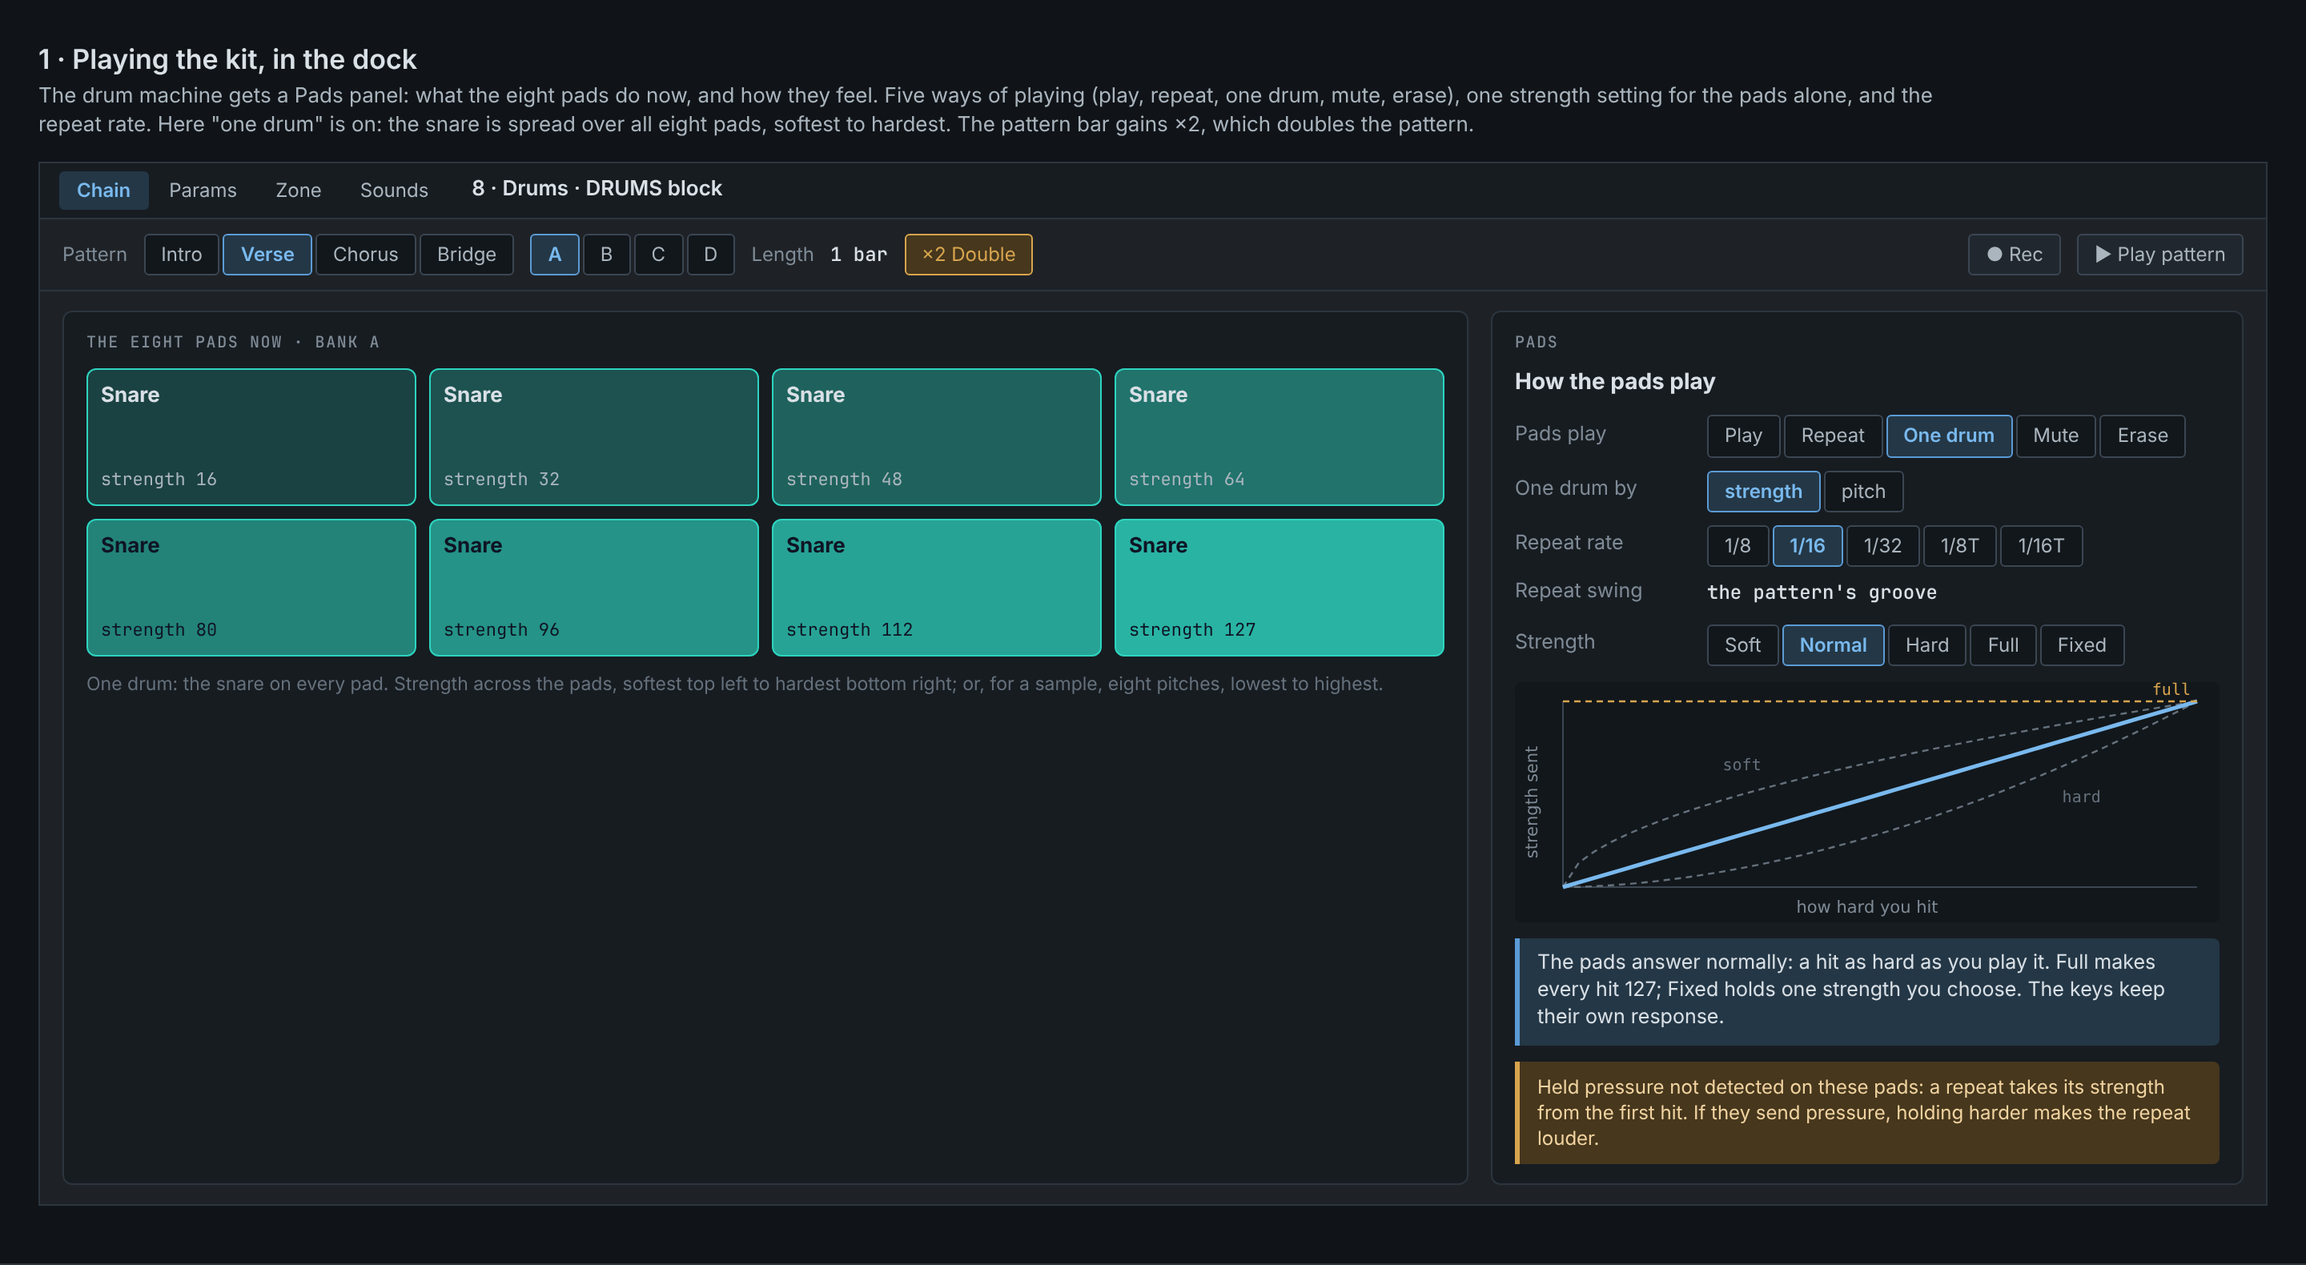
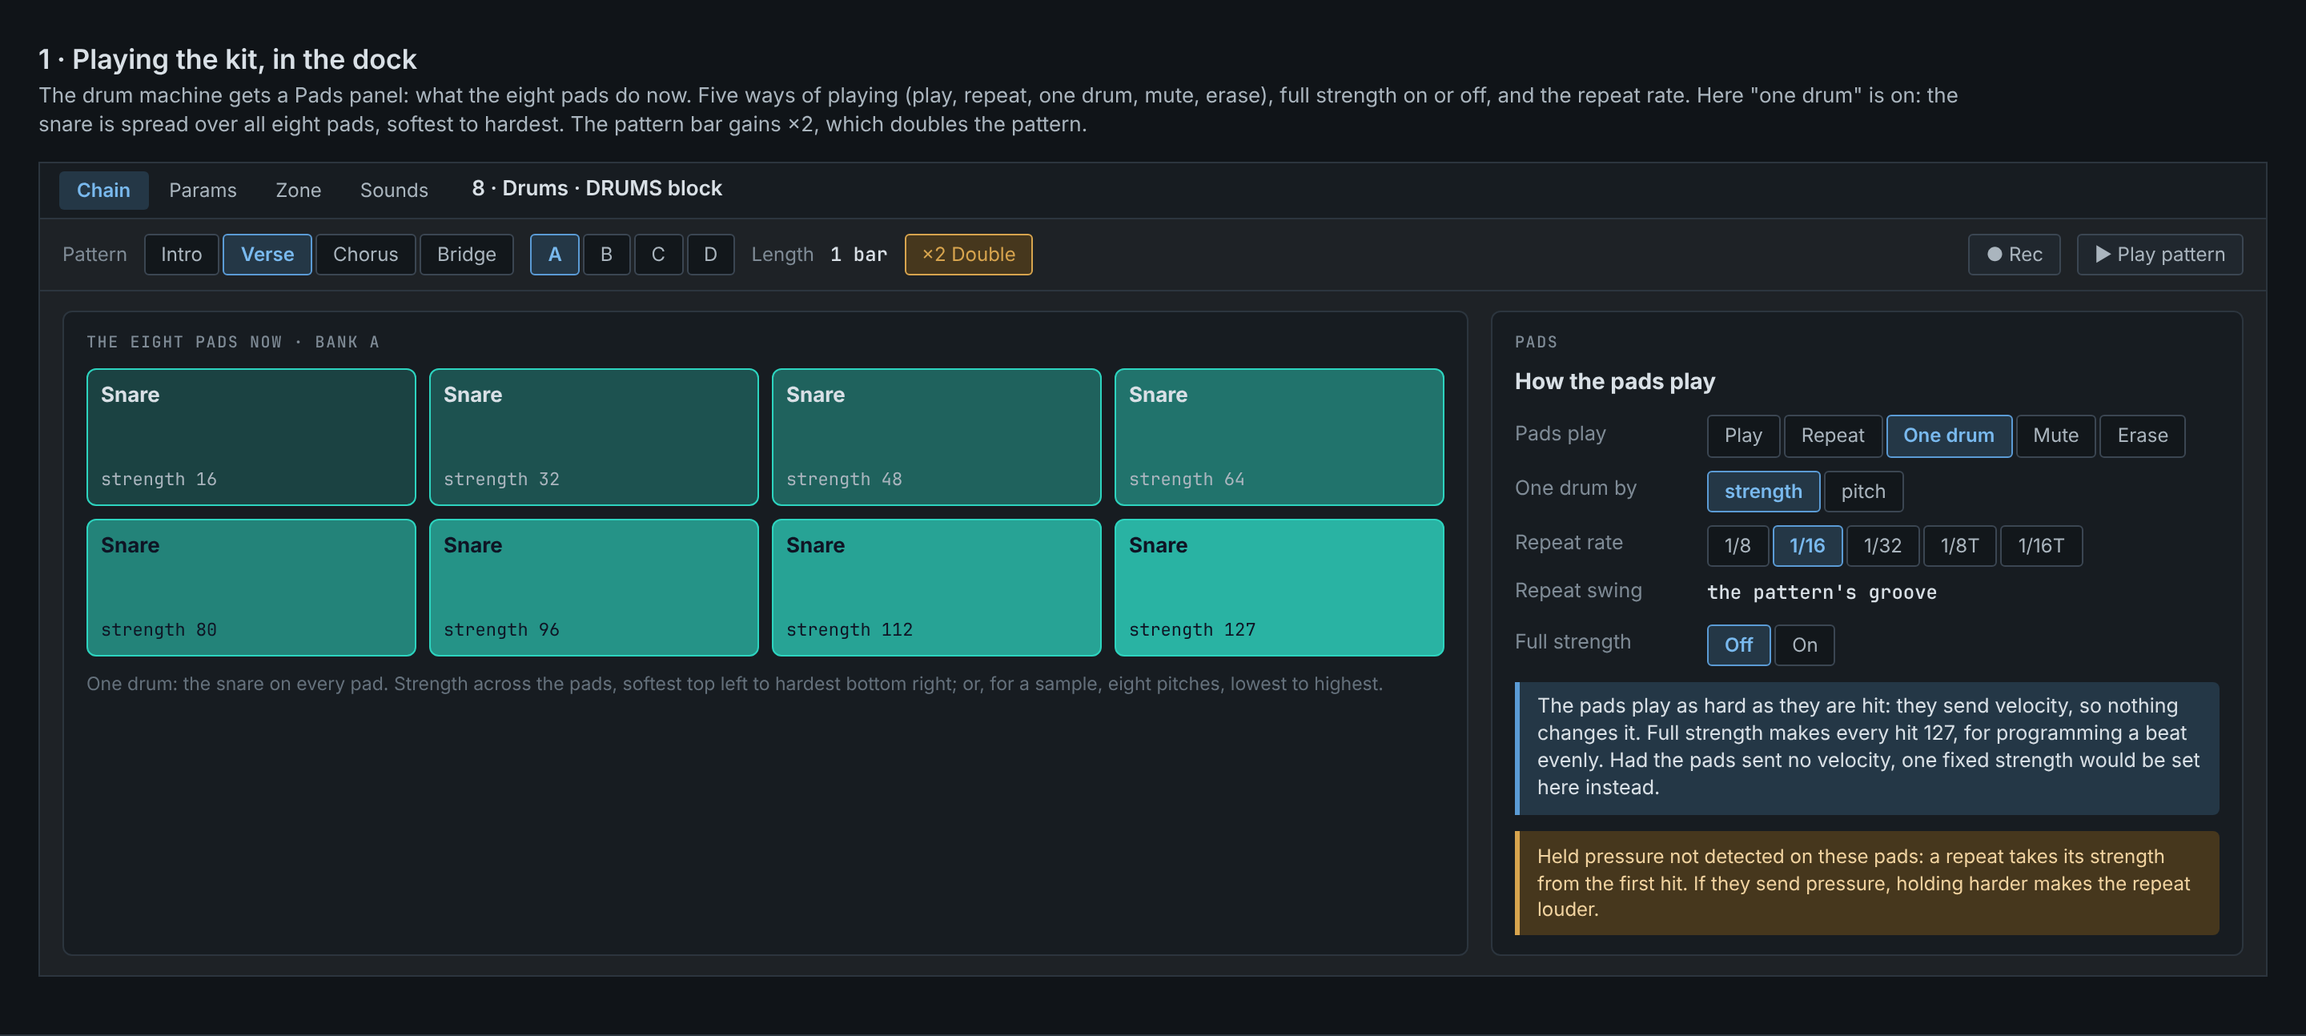
Design: playing the kit approved; pads with velocity play as hit [skip ci]
The owner approved the five ways for the pads to play, note repeat swung by the pattern's groove
and doubling a pattern. On the pads' strength the answer was no, if the pads have velocity: they
play as hard as they are hit, with no response curve of their own. Full strength stays, as a
switch, and only pads that send no velocity get one fixed strength. Feature 17 is changed to say
so, and the mockups replace the strength curve with the full-strength switch.

Claude-Session: https://claude.ai/code/session_01HyVeCzB98iwNdttddkKjwm

diff --git a/docs/design/hostage-kit-mockups.html b/docs/design/hostage-kit-mockups.html
@@ -62,8 +62,8 @@
 <section class="frame" id="f1">
   <div class="caption">
     <h2>1 · Playing the kit, in the dock</h2>
-    <p>The drum machine gets a Pads panel: what the eight pads do now, and how they feel. Five ways of playing (play, repeat, one drum, mute,
-      erase), one strength setting for the pads alone, and the repeat rate. Here "one drum" is on: the snare is spread over all eight pads,
+    <p>The drum machine gets a Pads panel: what the eight pads do now. Five ways of playing (play, repeat, one drum, mute, erase), full strength
+      on or off, and the repeat rate. Here "one drum" is on: the snare is spread over all eight pads,
       softest to hardest. The pattern bar gains ×2, which doubles the pattern.</p>
   </div>
   <div class="app">
@@ -82,9 +82,8 @@
           <span class="kk">Repeat rate</span><span class="seg"><span>1/8</span><span class="on">1/16</span><span>1/32</span><span>1/8T</span><span>1/16T</span></span>
           <span class="kk">Repeat swing</span><span><span class="v">the pattern's groove</span></span>
         </div>
-        <div class="kv"><span class="kk">Strength</span><span class="seg"><span>Soft</span><span class="on">Normal</span><span>Hard</span><span>Full</span><span>Fixed</span></span></div>
-        <div id="curve1"></div>
-        <div class="say">The pads answer normally: a hit as hard as you play it. Full makes every hit 127; Fixed holds one strength you choose. The keys keep their own response.</div>
+        <div class="kv"><span class="kk">Full strength</span><span class="seg"><span class="on">Off</span><span>On</span></span></div>
+        <div class="say">The pads play as hard as they are hit: they send velocity, so nothing changes it. Full strength makes every hit 127, for programming a beat evenly. Had the pads sent no velocity, one fixed strength would be set here instead.</div>
         <div class="warn">Held pressure not detected on these pads: a repeat takes its strength from the first hit. If they send pressure, holding harder makes the repeat louder.</div>
       </div>
     </div>
@@ -96,7 +95,7 @@
     <h2>2 · KIT on the CTRL49, three ways of playing</h2>
     <p>KIT keeps the pads as the drums and gains a MODE knob. REPEAT: hold a pad and it repeats at the rate, swung like the pattern. MUTE: each
       pad mutes or unmutes its drum while the pattern plays. ERASE: hold a pad and its drum's hits are cleared as the playhead passes them.
-      STRENGTH is the pads' response, FULL its top. PATTERN gains ×2. Which knob and pad does what is settled when the pages are built.</p>
+      FULL makes every hit full strength. PATTERN gains ×2. Which knob and pad does what is settled when the pages are built.</p>
   </div>
   <div class="three"><figure id="p1"></figure><figure id="p2"></figure><figure id="p3"></figure></div>
 </section>
@@ -112,7 +111,7 @@
     s += curve(1.8, '#65717c', 1.2, 1) + curve(.55, '#65717c', 1.2, 1) + curve(1, '#79b9ee', 2.5) + `<line x1="${X(0)}" y1="${Y(127)}" x2="${X(127)}" y2="${Y(127)}" stroke="#d7a44e" stroke-width="1.2" stroke-dasharray="4 3"/>`;
     s += `<text x="${X(127) - 4}" y="${Y(127) - 4}" text-anchor="end" font-family="DejaVu Sans Mono, monospace" font-size="10" fill="#d7a44e">full</text><text x="${X(100)}" y="${Y(58)}" font-family="DejaVu Sans Mono, monospace" font-size="10" fill="#65717c">hard</text><text x="${X(32)}" y="${Y(80)}" font-family="DejaVu Sans Mono, monospace" font-size="10" fill="#65717c">soft</text>`;
     s += `<text x="${W / 2}" y="${H - 6}" text-anchor="middle" font-family="DejaVu Sans, sans-serif" font-size="10.5" fill="#7f8b96">how hard you hit</text><text x="14" y="${H / 2}" font-family="DejaVu Sans, sans-serif" font-size="10.5" fill="#7f8b96" transform="rotate(-90 14 ${H / 2})" text-anchor="middle">strength sent</text>`;
-    document.getElementById('curve1').innerHTML = `<svg viewBox="0 0 ${W} ${H}" style="width:100%;height:auto;display:block">${s}</svg>`; }
+    const c1 = document.getElementById('curve1'); if (c1) c1.innerHTML = `<svg viewBox="0 0 ${W} ${H}" style="width:100%;height:auto;display:block">${s}</svg>`; }
 
   // ---- CTRL49 pages ----
   const C = { bg: '#0F1424', card: '#171D33', raised: '#232B48', text: '#E6E9F5', dim: '#6B7393', label: '#8890B0', foot: '#565E7E', bar: '#4A5378', violet: '#8B7CFF', teal: '#2DD4BF', amber: '#FFB547', pink: '#FF5C93' };
@@ -125,7 +124,7 @@
   const cells = (list) => list.map((c, i) => { if (!c) return ''; const cx = i * 60 + 30;
     return T(cx, 217, c.l, c.focus ? C.teal : C.label, 8.5, "text-anchor='middle' font-weight='700'") + T(cx, 236, c.v, c.focus ? C.teal : C.text, c.vs || 13, "text-anchor='middle' font-weight='600'") + `<rect x="${i * 60 + 8}" y="244" width="44" height="4" rx="2" fill="${C.raised}"/>` + (c.f ? `<rect x="${i * 60 + 8}" y="244" width="${44 * c.f}" height="4" rx="2" fill="${C.bar}"/>` : ''); }).join('');
   const kitCells = (mode, focus) => cells([{ l: 'KICK', v: '−2.0', f: .8 }, { l: 'SNARE', v: '0.0', f: .9 }, { l: 'CLAP', v: '−6.0', f: .6 }, { l: 'HAT CL', v: '−4.0', f: .7 },
-    { l: 'STRENGTH', v: 'NORMAL', vs: 10.5 }, { l: 'RATE', v: '1/16', focus: focus === 'rate' }, { l: 'SPREAD', v: 'STRENGTH', vs: 9.5 }, { l: 'MODE', v: mode, vs: 11, focus: true }]);
+    { l: 'FULL', v: 'OFF', vs: 12 }, { l: 'RATE', v: '1/16', focus: focus === 'rate' }, { l: 'SPREAD', v: 'STRENGTH', vs: 9.5 }, { l: 'MODE', v: mode, vs: 11, focus: true }]);
   const svg = (s) => `<svg viewBox="0 0 480 272" xmlns="http://www.w3.org/2000/svg">${s}</svg>`;
   const grid = (draw) => { let s = `<rect x="8" y="30" width="464" height="146" rx="4" fill="${C.card}"/>`; KIT.forEach(([n, c], i) => { const x = 16 + (i % 4) * 114, y = 38 + Math.floor(i / 4) * 68; s += draw(n, c, i, x, y); }); return s; };
   // REPEAT

diff --git a/docs/design/hostage-kit-design.md b/docs/design/hostage-kit-design.md
@@ -1,6 +1,7 @@
 # HoSTage: playing the kit
 
-*Design with mockups for the owner to approve, 2026-11-19. Nothing built. It draws seven features
+*Design with mockups, approved by the owner on 2026-11-19, with one change to the pads' strength
+(decision 2). Nothing built. It draws seven features
 of `hostage-build-features-2.md` that live on the drum machine's pads, all taken: 2 (note repeat)
 and 13 to 18 (full strength, one drum on every pad, erase while it plays, mute drums from the pads,
 pad response, double the pattern). They are decided; this record decides only how they look and
@@ -37,10 +38,10 @@ The drum machine's editor gains a **Pads** panel: what the eight pads do now, an
   - **Mute** (16): each pad mutes or unmutes its drum while the pattern plays.
   - **Erase** (15): hold a pad and its drum's hits are cleared as the playhead passes them; let go
     to stop. Undo puts them back.
-- **Strength** (17 and 13): how the pads answer, for the pads alone; the keys keep their own
-  response. **Soft** (a light touch gives more), **Normal**, **Hard** (it takes a harder hit),
-  **Full** (every hit 127: feature 13) or **Fixed** (one strength you choose). Drawn as a curve,
-  how hard you hit against the strength sent.
+- **Full strength** (13): on or off. On, every hit is 127, for programming a beat evenly.
+- **No response curve for the pads** (17, changed by decision 2): pads that send velocity play as
+  hard as they are hit, and nothing changes it. Only if the pads send no velocity do they get one
+  **fixed strength**, set here. The keys keep their own response either way.
 - **×2 Double** (18) in the pattern bar: the pattern's bar copied to make two, ready to vary the
   second, within the line's 64 steps.
 
@@ -50,7 +51,7 @@ The drum machine's editor gains a **Pads** panel: what the eight pads do now, an
 
 - **KIT keeps the pads as the drums** and gains a **MODE** knob (play, repeat, one drum, mute,
   erase), a **RATE** knob for repeat, a **SPREAD** knob for one drum (strength or pitch) and a
-  **STRENGTH** knob for the response, with FULL at its top. The first four knobs stay the drums'
+  **FULL** knob for full strength. The first four knobs stay the drums'
   levels.
 - **REPEAT** shows the held pad's repeats as they play. **MUTE** shows each drum playing or muted.
   **ERASE** shows the held drum's lane, the hits cleared since the pad went down, and the playhead.
@@ -67,17 +68,18 @@ The drum machine's editor gains a **Pads** panel: what the eight pads do now, an
   pitches (Samples design).
 - **Mute and erase**: a lane's mute, and its steps cleared in real time as the playhead passes, as
   one undo step per press.
-- **Strength**: a curve applied to the pads' velocity only, before the drum machine and Samples
-  see it.
+- **Full strength**: every pad hit sent at 127 while on; a fixed strength instead of velocity only
+  if the pads send none (the pad test says which).
 - **Double**: a pattern's steps copied into a second bar.
 - **The pad pressure test** on the owner's CTRL49 (features record, MPK-style playing).
 
-## Decisions for the owner
+## Decisions (owner, 2026-11-19: "Approved. 1. Yes. 2. If the pads have velocity, no. 3. Yes. 4. Yes")
 
 1. **Five ways for the pads to play** (play, repeat, one drum, mute, erase), chosen in the dock and
-   with a MODE knob on KIT?
-2. **One strength setting for the pads alone** (soft, normal, hard, full, fixed), the keys keeping
-   their own?
+   with a MODE knob on KIT. **Yes.**
+2. **A strength setting for the pads alone.** **No, if the pads have velocity**: they play as hard as
+   they are hit, with no response curve. Full strength (feature 13) stays, as a switch. Only pads
+   without velocity get one fixed strength. The mockups show this.
 3. **Note repeat swung by the pattern's groove**, louder when held harder only if the pads send
-   pressure?
-4. **×2 in the pattern bar and on PATTERN**, within the 64 steps?
+   pressure. **Yes.**
+4. **×2 in the pattern bar and on PATTERN**, within the 64 steps. **Yes.**

diff --git a/docs/design/hostage-build-features-2.md b/docs/design/hostage-build-features-2.md
@@ -22,7 +22,7 @@ is right.*
 | # | Feature | Status | Design |
 | --- | --- | --- | --- |
 | 1 | **A drum machine**: a drum part's patterns as a grid in the dock and three pages on the CTRL49 | approved with mockups, 2026-11-19; it plays the drum instrument you load and has no sounds of its own | `hostage-drums-design.md` |
-| 2 | **Note repeat** on the KIT pads | taken, 2026-11-19; design with mockups for approval | `hostage-kit-design.md` |
+| 2 | **Note repeat** on the KIT pads | approved with mockups, 2026-11-19 | `hostage-kit-design.md` |
 | 3 | **A kit from anywhere**: each drum from a different instrument | taken; design to come | |
 | 4 | **Split a kit onto mixer strips** | taken; design to come | |
 | 5 | **An energy knob** that thins a pattern out or fills it in | taken; design to come | |
@@ -33,12 +33,12 @@ is right.*
 | 10 | **The kick ducks the bass**, from the pattern's own hits | taken; design to come | |
 | 11 | **A line machine**: the drum grid's twin for basslines and synth lines | taken; design to come | |
 | 12 | **Samples, on pads and keys**: a built-in one-shot sampler, the file player made playable | approved with mockups, 2026-11-19 | `hostage-sampler-design.md` |
-| 13 | **Full strength**: every pad hit at full velocity | approved, 2026-11-19 (MPK-style playing); design with mockups for approval | `hostage-kit-design.md` |
-| 14 | **One drum on every pad**, at eight strengths or eight pitches | approved, 2026-11-19 (MPK-style playing); design with mockups for approval | `hostage-kit-design.md` |
-| 15 | **Erase while it plays**: hold ERASE and a pad to clear that drum's hits | approved, 2026-11-19 (MPK-style playing); design with mockups for approval | `hostage-kit-design.md` |
-| 16 | **Mute drums from the pads** | approved, 2026-11-19 (MPK-style playing); design with mockups for approval | `hostage-kit-design.md` |
-| 17 | **Pad response**: a soft, normal or hard curve for the pads alone, or a fixed strength | approved, 2026-11-19 (MPK-style playing); design with mockups for approval | `hostage-kit-design.md` |
-| 18 | **Double the pattern**: one bar copied to two, ready to vary | approved, 2026-11-19 (MPK-style playing); design with mockups for approval | `hostage-kit-design.md` |
+| 13 | **Full strength**: every pad hit at full velocity | approved with mockups, 2026-11-19 (MPK-style playing) | `hostage-kit-design.md` |
+| 14 | **One drum on every pad**, at eight strengths or eight pitches | approved with mockups, 2026-11-19 (MPK-style playing) | `hostage-kit-design.md` |
+| 15 | **Erase while it plays**: hold ERASE and a pad to clear that drum's hits | approved with mockups, 2026-11-19 (MPK-style playing) | `hostage-kit-design.md` |
+| 16 | **Mute drums from the pads** | approved with mockups, 2026-11-19 (MPK-style playing) | `hostage-kit-design.md` |
+| 17 | **Pad response**: changed by the owner: no curve when the pads send velocity; a fixed strength only for pads without it | approved with mockups, 2026-11-19 (MPK-style playing) | `hostage-kit-design.md` |
+| 18 | **Double the pattern**: one bar copied to two, ready to vary | approved with mockups, 2026-11-19 (MPK-style playing) | `hostage-kit-design.md` |
 
 ## 1. A drum machine
 
@@ -181,7 +181,9 @@ below are named for what they do.
 16. **Mute drums from the pads.** A KIT pad layer where each pad mutes or unmutes its drum, for
     dropping the kick out of a groove and back in.
 17. **Pad response.** A soft, normal or hard curve for the pads alone, or one fixed strength, set
-    apart from the keys, since pads and keys rarely feel alike.
+    apart from the keys, since pads and keys rarely feel alike. *Changed when drawn (the owner,
+    2026-11-19: "If the pads have velocity, no"): pads that send velocity play as hit, with no curve;
+    only pads without velocity get one fixed strength (`hostage-kit-design.md`, decision 2).*
 18. **Double the pattern.** One bar copied to make two, ready to vary the second, the quick way to a
     longer loop (still within the line's 64 steps).
 

diff --git a/docs/design/README.md b/docs/design/README.md
@@ -72,7 +72,7 @@ with an *as built* section per phase.
 | [HoSTage: Build features, second round](hostage-build-features-2.md) | *Started 2026-11-19; nothing built.* The second round of Build features, after the first round's record (`hostage-wider-not-a-daw.md`), whose rules it follows. A list of features, each with its status and its design record. |
 | [HoSTage: the drum machine](hostage-drums-design.md) | *Approved with mockups, 2026-11-19; nothing built.* Feature 1 of the second round. A drum part's patterns, which already have drum lanes with strength, chance, repeats, nudge, conditions, polymeter, variations and a held fill, get a drum machine's face: a DRUMS block and grid in the dock, and DRUMS, KIT and PATTERN pages on the CTRL49. It plays the drum instrument you load and has no sounds of its own. Mockups in [hostage-drums-mockups.html](hostage-drums-mockups.html). |
 | [HoSTage: samples, on pads and keys](hostage-sampler-design.md) | *Approved with mockups, 2026-11-19; nothing built.* Feature 12 of the second round. A built-in one-shot sampler, the first round's file player made playable: each sample on a pad and on the keys, one key or a pitched range, sixteen pads a bank, trimmed on its waveform, with fades, level, pitch, choke groups and a note; files collected into the show; SAMPLES and TRIM pages on the CTRL49. A full sampler instrument stays with plug-ins. Mockups in [hostage-sampler-mockups.html](hostage-sampler-mockups.html). |
-| [HoSTage: playing the kit](hostage-kit-design.md) | *Design with mockups for approval, 2026-11-19; nothing built.* Features 2 and 13 to 18 of the second round, all on the drum machine's pads: five ways for the pads to play (play, repeat, one drum, mute, erase), one strength setting for the pads alone (soft to full or fixed), note repeat swung by the pattern's groove, and doubling a pattern. A Pads panel in the dock and a MODE knob on KIT. Mockups in [hostage-kit-mockups.html](hostage-kit-mockups.html). Four decisions for the owner. |
+| [HoSTage: playing the kit](hostage-kit-design.md) | *Approved with mockups, 2026-11-19; nothing built.* Features 2 and 13 to 18 of the second round, all on the drum machine's pads: five ways for the pads to play (play, repeat, one drum, mute, erase), full strength as a switch (pads with velocity play as hit, with no curve), note repeat swung by the pattern's groove, and doubling a pattern. A Pads panel in the dock and a MODE knob on KIT. Mockups in [hostage-kit-mockups.html](hostage-kit-mockups.html). |
 | [The modular chain](modular-chain.md) | *As built.* Instruments, MIDI modules and inserts as separate things: the per-part MIDI insert chain that replaced the welded FX-into-arp pair (with its migration), group buses where several parts become one signal that keeps going, and chain presets that keep a whole voice — instrument, modules, inserts and zone — as one library record. Ends with what it deliberately does not do. |
 | [Reliability, diagnostics and the support bundle](instrument-host-reliability.md) | The baseline's §17 layer, built after the seven functionality stages: the architecture check that keeps an unloadable module out of the browser without calling it broken, safe startup after a plug-in takes the process down, a last-known-good session that is not the crash, and a support bundle gathered by allowlist. Carries the §18.12 handover material for the host as a whole — compatibility matrix, known limitations, failure fixtures and a manual test plan. |
 | [Feature-list completion audit](hostage-feature-completion-audit.md) | Evidence matrix for the 36 requested Hostage additions: persistent/native/UI/test ownership per item, permitted browser verification, and the two remaining completion gates (native rebuild and real out-of-process crash isolation). |
